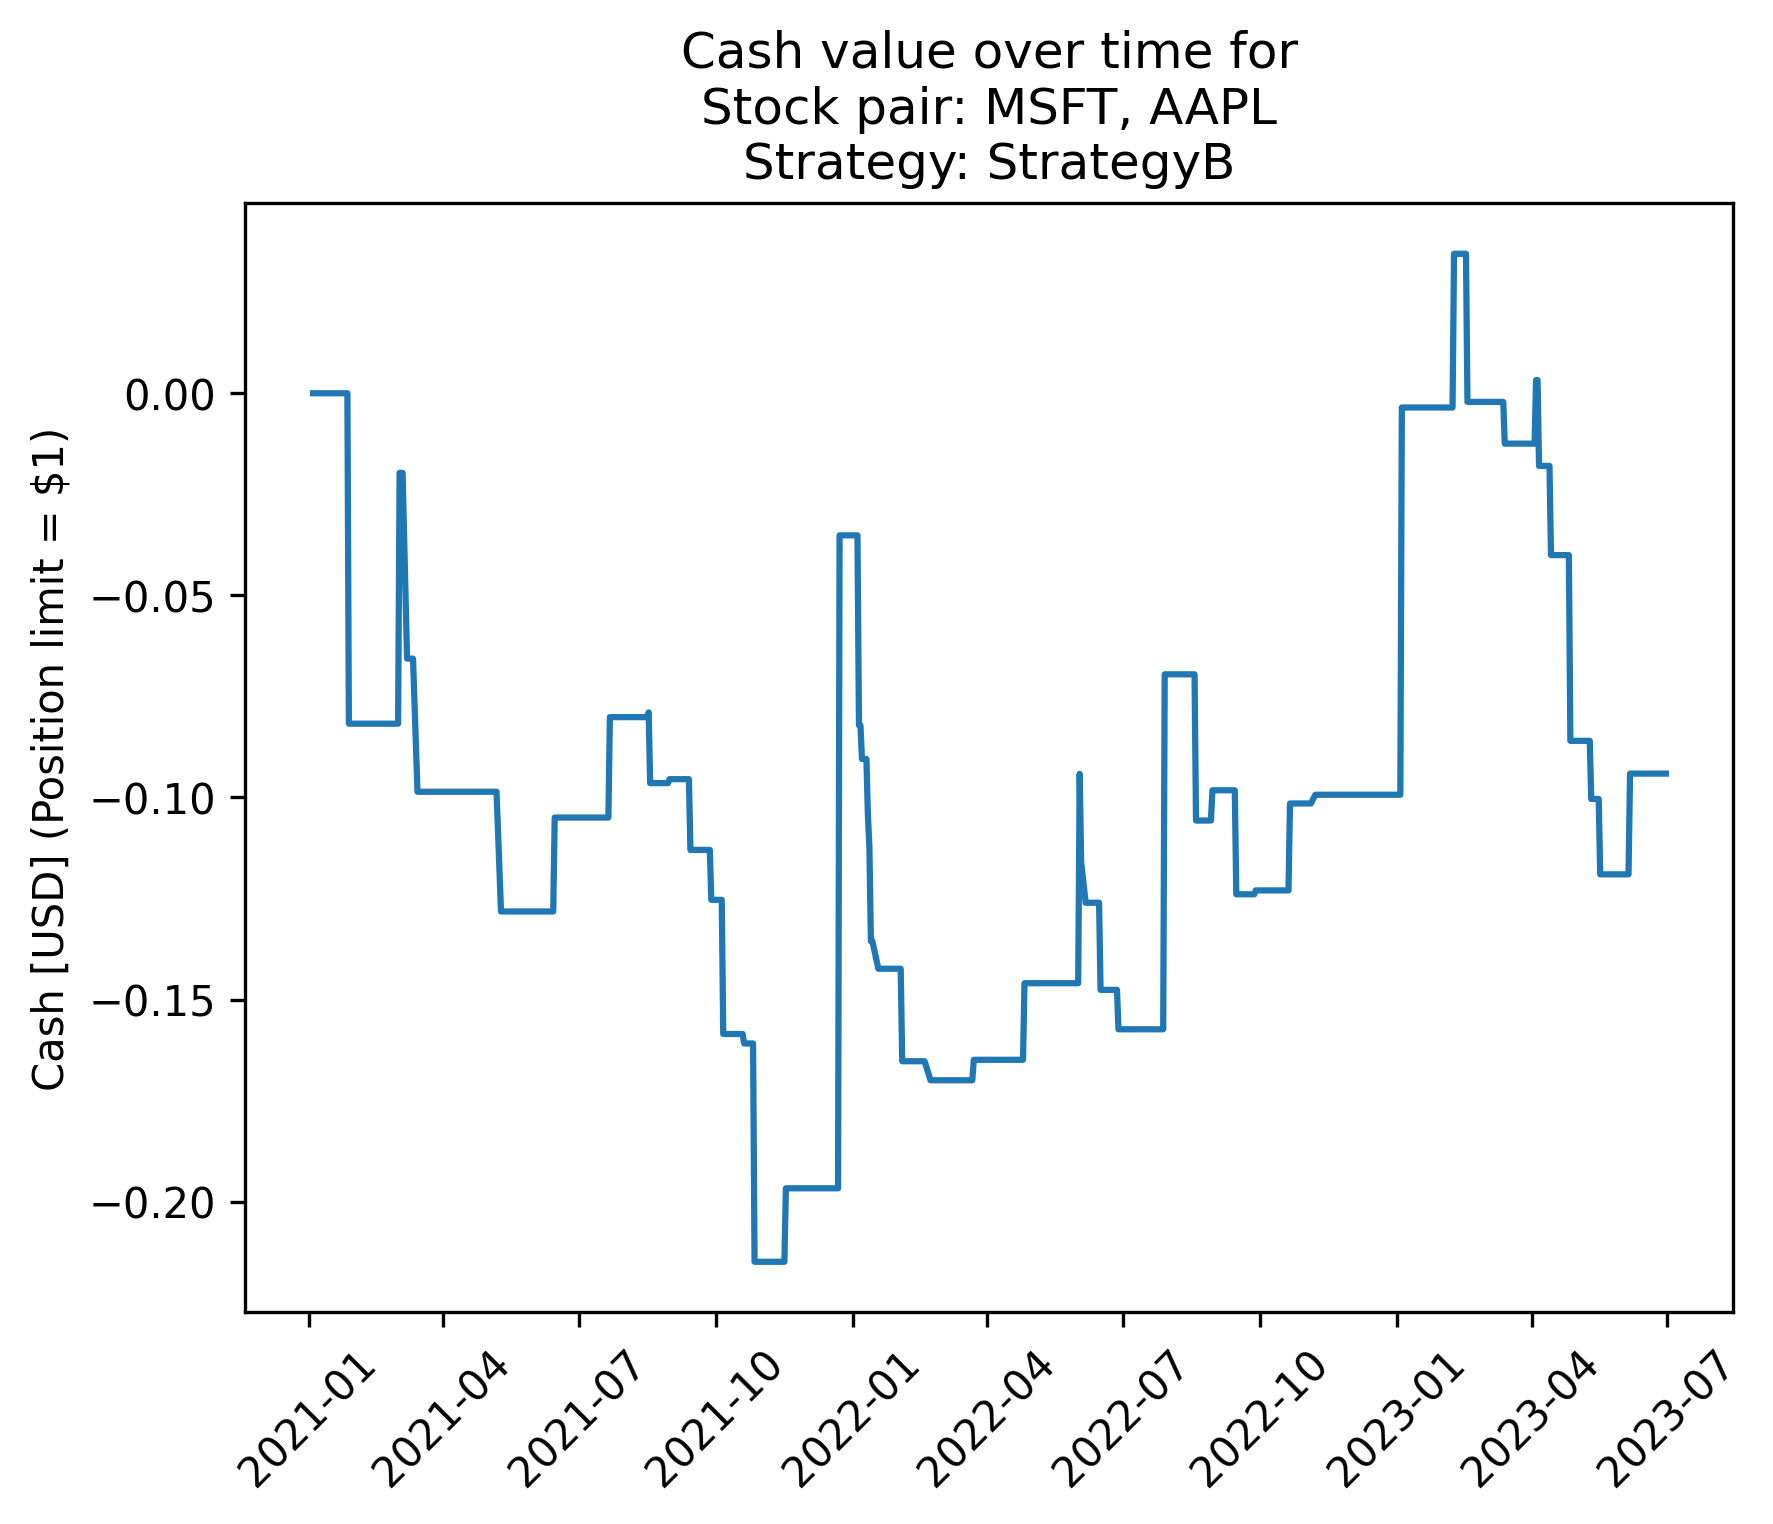
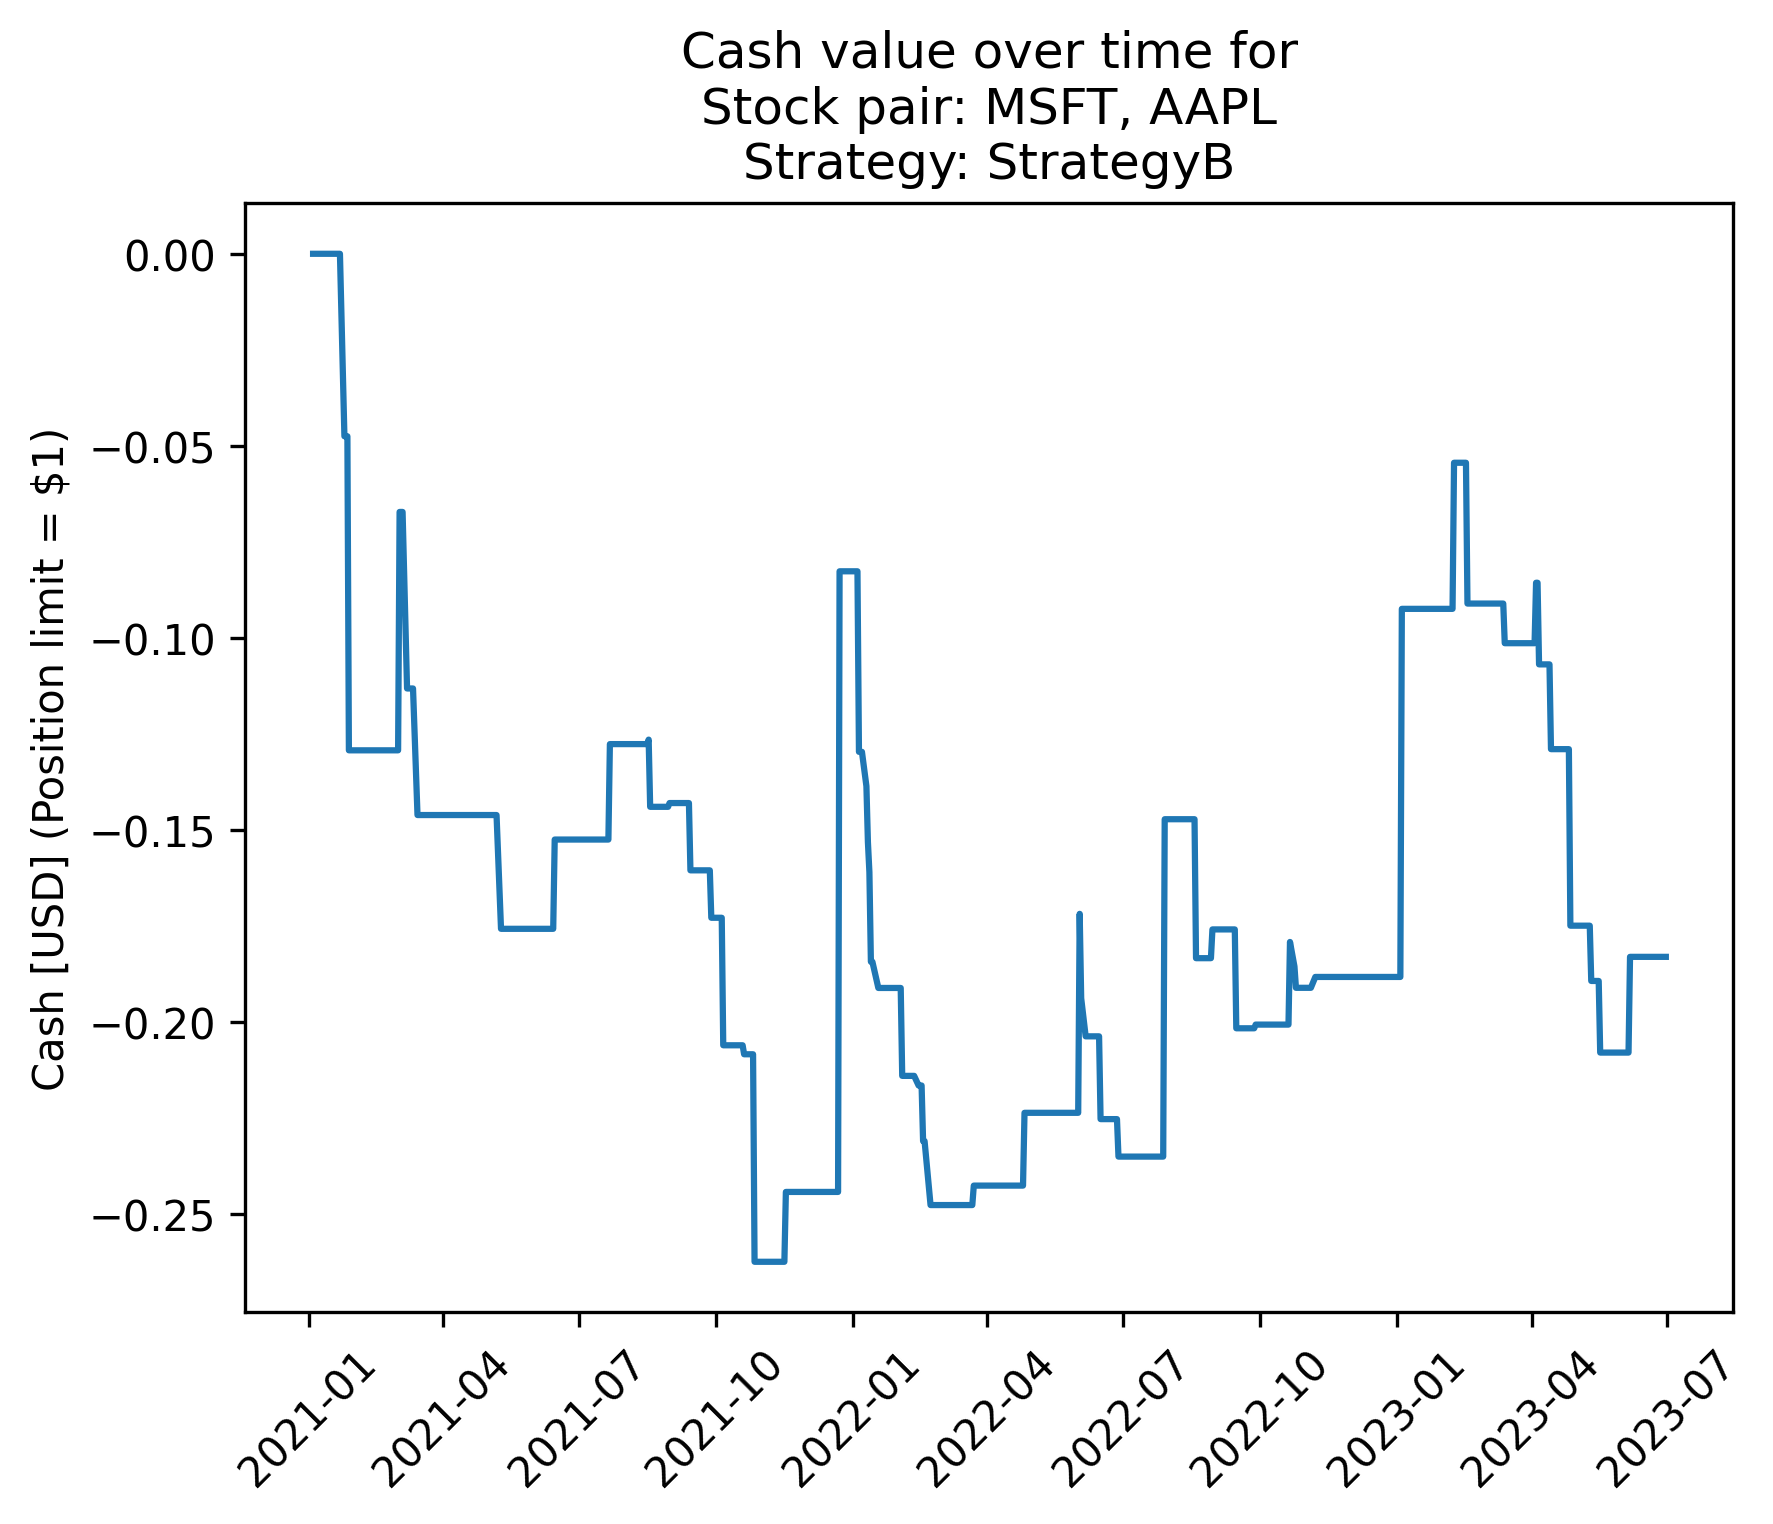
Remove StrategyB and repalced it with StrategyB2

diff --git a/tests/test_strategies.py b/tests/test_strategies.py
@@ -90,104 +90,10 @@ def test_strategy_a_calculate_new_position(mock_read_csv):
     new_position = strategy.calculate_new_position()
     assert new_position == 'long B short A'
 
-@patch('pairs_trading_oaf.data.read_csv')
-def test_strategy_b_initialization(mock_read_csv):
+@patch('pairs_trading_oaf.strategies.StrategyB.calc_initial_macd_signal')
+def test_strategy_b_initialization_no_initital_macd(mock_calc_initial_macd_signal):
     """
-    This test checks that the StrategyB class is initialized correctly.
-    """
-
-    # Arrange
-
-    # Create a mock pair portfolio object
-    mock_pair_portfolio = Mock()
-    mock_pair_portfolio.stock_pair_labels = ('StockA', 'StockB')
-
-    # Create mock data for the initial window
-    mock_data = pd.DataFrame({'Date': pd.date_range(start='2021-01-01', periods=100, freq='D'),
-                              'StockA': np.random.rand(100) * 100,
-                              'StockB': np.random.rand(100) * 200
-                            })
-    mock_data.index = mock_data['Date']
-    mock_read_csv.return_value = mock_data
-
-    # Act
-    strategy = strategies.StrategyB(mock_pair_portfolio)
-
-    # Assert
-    assert strategy.pair_portfolio == mock_pair_portfolio
-    assert strategy.fast_window_size == 12
-    assert strategy.slow_window_size == 26
-    assert strategy.signal_window_size == 9
-    max_window_size = np.max([strategy.fast_window_size,
-                              strategy.slow_window_size,
-                              strategy.signal_window_size])
-    assert strategy.window_prices.equals(mock_data[['StockA', 'StockB']].tail(max_window_size+50))
-
-def test_calc_macd_signal():
-    """
-    This test checks that the calc_macd_signal function returns the correct output.
-    """
-
-    # Arrange
-    # Create a series of stock prices (ratios)
-    stock_a_prices = np.array([4, 3, 1, 2, 5, 1])
-    stock_b_prices = np.array([1, 1, 1, 1, 1, 1])
-    ratio = pd.Series(stock_a_prices / stock_b_prices)
-
-    # Define the window sizes directly in the test
-    fast_window_size = 2
-    slow_window_size = 4
-    signal_window_size = 2
-
-    # alpha = 2 / (window_size + 1)
-    # alpha_fast = 2 / = 2/3
-    # fast_ema[0] = ratio[0] = 4
-    # fast_ema[1] = (1 - alpha) * 4 + alpha * 3 =  10/3  = 3.3333333
-    # fast_ema[2] = (1 - alpha) * 10/3 + alpha * 1 = 16/9 = 1.7777777
-    # fast_ema[3] = (1 - alpha) * 16/9 + alpha * 2 = 52/27 = 1.9259259
-    # fast_ema[4] = (1 - alpha) * 52/27 + alpha * 5 = 322/81 = 3.9753086
-    # fast_ema[5] = (1 - alpha) * 322/81 + alpha * 1 = 484/243 = 1.9917695
-    # fast_ema = [4, 10/3, 16/9, 52/27, 322/81, 484/243]
-    # alpha_slow = 2 / 5
-    # slow_ema[0] = 4
-    # slow_ema[0] = (1 - alpha) * 4 + alpha * 3 = 18/5 = 3.6
-    # slow_ema[1] = (1 - alpha) * 18/5 + alpha * 1 = 64/25 = 2.56
-    # slow_ema[2] = (1 - alpha) * 64/25 + alpha * 2 = 292/125 = 2.336
-    # slow_ema[3] = (1 - alpha) * 292/125 + alpha * 5 = 2126/625 = 3.4016
-    # slow_ema[4] = (1 - alpha) * 2126/625 + alpha * 1 = 7628/3125 = 2.44096
-    # slow_ema = [4, 18/5, 64/25, 292/125, 2126/625, 7628/3125]
-    # macd = fast_ema - slow_ema
-    # macd = [0, -4/15, -176/225, -1384/3375, 29044/50625,-341104/759375]
-    #      = [0, -0.2666666, -0.7822222, -0.4103703, 0.5733333, -0.4491852]
-    # alpha_signal = 2 / 3
-    # signal[0] = macd[0] = 0
-    # signal[1] = (1 - alpha) * 0 + alpha * (-4/15) = -8/45 = -0.1777777
-    # signal[2] = (1 - alpha) * (-8/45) + alpha * (-176/225) = -392/675 = -0.5807407
-    # signal[3] = (1 - alpha) * (-392/675) + alpha * (-1384/3375) = -1576/3375 = -0.4669629
-    # signal[4] = (1 - alpha) * (-1576/3375) + alpha * (29044/50625) = 34448/151875 = 0.22681811
-    # signal[5] = (1 - alpha) * (34448/151875) + alpha * (-341104/759375) = -509968/2278125
-    #           = -0.2238543
-    # signal = np.array([0, -8/45, -392/675, -1576/3375, 34448/151875, -509968/2278125])
-
-    # Act
-    macd, signal = strategies.StrategyB.calc_macd_signal(ratio,
-                                                         slow_window_size,
-                                                         fast_window_size,
-                                                         signal_window_size)
-
-    # Assert
-    assert macd is not None
-    assert signal is not None
-    assert len(macd) == len(ratio)
-    assert len(signal) == len(ratio)
-    # assert macd = [0, -4/15, -176/225, -1384/3375, 29044/50625,-341104/759375]
-    assert np.allclose(macd, [0, -4/15, -176/225, -1384/3375, 29044/50625,-341104/759375])
-    assert np.allclose(signal, [0, -8/45, -392/675, -1576/3375, 34448/151875, -509968/2278125])
-
-@patch('pairs_trading_oaf.strategies.StrategyB2.calc_initial_macd_signal')
-def test_strategy_b2_initialization_no_initital_macd(mock_calc_initial_macd_signal):
-    """
-    This test checks that the StrategyB2 class is initialized correctly but without calling the
+    This test checks that the StrategyB class is initialized correctly but without calling the
     calc_initial_macd_signal function.
     """
 
@@ -198,7 +104,7 @@ def test_strategy_b2_initialization_no_initital_macd(mock_calc_initial_macd_sign
     mock_pair_portfolio.stock_pair_labels = ('StockA', 'StockB')
 
     # Act
-    strategy = strategies.StrategyB2(mock_pair_portfolio)
+    strategy = strategies.StrategyB(mock_pair_portfolio)
 
     # Assert
     assert strategy.pair_portfolio == mock_pair_portfolio
@@ -212,9 +118,9 @@ def test_strategy_b2_initialization_no_initital_macd(mock_calc_initial_macd_sign
     mock_calc_initial_macd_signal.assert_called_once()
 
 @patch('pairs_trading_oaf.data.read_csv')
-def test_strategy_b2_initialization(mock_read_csv):
+def test_strategy_b_initialization(mock_read_csv):
     """
-    This test checks that the StrategyB2 class is initialized correctly and also tests the
+    This test checks that the StrategyB class is initialized correctly and also tests the
     calc_initial_macd_signal function.
     """
 
@@ -233,7 +139,7 @@ def test_strategy_b2_initialization(mock_read_csv):
     mock_read_csv.return_value = mock_data
 
     # Act
-    strategy = strategies.StrategyB2(mock_pair_portfolio,
+    strategy = strategies.StrategyB(mock_pair_portfolio,
                                      fast_period=3,
                                      slow_period=4,
                                      signal_period=2,
@@ -268,9 +174,9 @@ def test_strategy_b2_initialization(mock_read_csv):
     assert np.isclose(strategy.macd.signal, 1/15)
 
 @patch('pairs_trading_oaf.data.read_csv')
-def test_strategy_b2_calculate_new_position(mock_read_csv):
+def test_strategy_b_calculate_new_position(mock_read_csv):
     """
-    This test checks that the StrategyB2 class calculates the new position correctly.
+    This test checks that the StrategyB class calculates the new position correctly.
     """
     # Arrange
     mock_pair_portfolio = Mock()
@@ -286,12 +192,11 @@ def test_strategy_b2_calculate_new_position(mock_read_csv):
     mock_read_csv.return_value = mock_data
 
     # Act
-    strategy = strategies.StrategyB2(mock_pair_portfolio,
+    strategy = strategies.StrategyB(mock_pair_portfolio,
                                      fast_period=3,
                                      slow_period=4,
                                      signal_period=2,
                                      training_period=2)
-    
     assert np.isclose(strategy.macd.fast_ewma, 5/2)
     assert np.isclose(strategy.macd.slow_ewma, 12/5)
     assert np.isclose(strategy.macd.macd, 1/10)
@@ -329,7 +234,7 @@ def test_strategy_b2_calculate_new_position(mock_read_csv):
     # Test 3: Check if the macd crosses above the signal
     #         then the position should change to long A short B.
     mock_pair_portfolio.stock_pair_prices = (10, 1)
-    new_position = strategy.calculate_new_position()    
+    new_position = strategy.calculate_new_position()
     # fast_ewma = alpha_fast * (10) + (1 - alpha_fast) * 37/24 = 277/48
     # slow_ewma = alpha_slow * (10) + (1 - alpha_slow) * 644/375 = 3144/625
     # macd = fast_ewma - slow_ewma = 22213/30000

diff --git a/pairs_trading_oaf/strategies.py b/pairs_trading_oaf/strategies.py
@@ -23,7 +23,6 @@ class StrategyX(BaseStrategy):
 """
 
 from abc import ABC, abstractmethod
-import numpy as np
 import pandas as pd
 from pairs_trading_oaf import data
 
@@ -112,92 +111,6 @@ class StrategyA(BaseStrategy):
             return self.pair_portfolio.position
 
 class StrategyB(BaseStrategy):
-    """
-    Moving Average Convergence Divergence (MACD) strategy.
-
-    The MACD strategy is a trend following strategy that uses the difference between
-    two moving averages of the stock prices to determine the position.
-
-    The MACD line is the difference between the 26-day and 12-day exponential moving averages
-    of the stock prices. The signal line is the 9-day exponential moving average of the MACD line.
-
-    The position is long stock A and short stock B if the MACD crosses above the signal line.
-
-    The position is long stock B and short stock A if the MACD crosses below the signal line.
-    """
-
-    def __init__(self, pair_portfolio,
-                 fast_window_size: int = 12,
-                 slow_window_size: int = 26,
-                 signal_window_size: int = 9):
-        self.pair_portfolio = pair_portfolio
-        self.fast_window_size = fast_window_size
-        self.slow_window_size = slow_window_size
-        self.signal_window_size = signal_window_size
-        max_window_size = np.max([self.fast_window_size,
-                                  self.slow_window_size,
-                                  self.signal_window_size])
-        # Set the window size to be the maximum window size plus 50
-        # This is to ensure that we have enough data to calculate the MACD and signal line
-        window_size = max_window_size + 50
-        self.window_prices = self.calculate_initial_window(window_size)
-
-    @staticmethod
-    def calc_macd_signal(ratio, slow_window_size, fast_window_size, signal_window_size):
-        """
-        Calculate the MACD and signal line for a given stock pair ratio.
-        """
-        fast_ema = ratio.ewm(span=fast_window_size, adjust=False).mean()
-        slow_ema = ratio.ewm(span=slow_window_size, adjust=False).mean()
-        macd = fast_ema - slow_ema
-        signal = macd.ewm(span=signal_window_size, adjust=False).mean()
-        return macd, signal
-
-    @staticmethod
-    def calc_macd_new_signal(ratio, slow_window_size, fast_window_size, signal_window_size):
-        """
-        Calculate the MACD and signal line for a given stock pair ratio.
-        """
-        fast_ema = ratio.ewm(span=fast_window_size, adjust=False).mean()
-        slow_ema = ratio.ewm(span=slow_window_size, adjust=False).mean()
-        macd = fast_ema - slow_ema
-        signal = macd.ewm(span=signal_window_size, adjust=False).mean()
-        return macd, signal
-
-    def calculate_new_position(self):
-        """
-        Calculate the new position for the pair portfolio.
-
-        Takes the latest prices of the stock pair and calculates the new position based on the
-        MACD and signal line. The new position can be one of the following strings:
-        - "no position"
-        - "long A short B"
-        - "long B short A"
-        """
-        new_prices = self.pair_portfolio.stock_pair_prices
-        current_date = self.pair_portfolio.date
-        stock_pair_labels = self.pair_portfolio.stock_pair_labels
-        new_data = pd.DataFrame([new_prices],
-                                columns=stock_pair_labels,
-                                index=[current_date])
-        self.window_prices = pd.concat([self.window_prices, new_data])
-        self.window_prices = self.window_prices.iloc[1:]
-        ratio = self.window_prices[stock_pair_labels[0]] / self.window_prices[stock_pair_labels[1]]
-        macd, signal = self.calc_macd_signal(ratio,
-                                             self.slow_window_size,
-                                             self.fast_window_size,
-                                             self.signal_window_size)
-        if macd.iloc[-1] > signal.iloc[-1] and macd.iloc[-2] < signal.iloc[-2]:
-            # MACD crossed above signal line so long stock A and short stock B
-            return 'long A short B'
-        elif macd.iloc[-1] < signal.iloc[-1] and macd.iloc[-2] > signal.iloc[-2]:
-            # MACD crossed below signal line so long stock B and short stock A
-            return 'long B short A'
-        else:
-            # Don't change the position if the MACD and signal line do not cross
-            return self.pair_portfolio.position
-
-class StrategyB2(BaseStrategy):
     """
     Moving Average Convergence Divergence (MACD) strategy.
 

diff --git a/pairs_trading_oaf/plotting.py b/pairs_trading_oaf/plotting.py
@@ -38,6 +38,7 @@ def plot_portfolio_value_over_time(master_portfolio,
                              f'{pair_portfolio.strategy.__class__.__name__}' + '_' +
                              stock_a_label + '_' + stock_b_label + '.png')
         fig.savefig(fname, dpi=300, bbox_inches='tight')
+        plt.close()
 
         if plot_cash:
 
@@ -53,6 +54,7 @@ def plot_portfolio_value_over_time(master_portfolio,
                                 f'{pair_portfolio.strategy.__class__.__name__}' + '_' +
                                 stock_a_label + '_' + stock_b_label + '.png')
             fig.savefig(fname, dpi=300, bbox_inches='tight')
+            plt.close()
 
     fig, ax = plt.subplots()
 
@@ -64,6 +66,7 @@ def plot_portfolio_value_over_time(master_portfolio,
     ax.set_title('Average portfolio value over time')
     fname = os.path.join(plots_dir, 'average_portfolio_value_over_time.png')
     fig.savefig(fname, dpi=300, bbox_inches='tight')
+    plt.close()
 
     if plot_cash:
         fig, ax = plt.subplots()
@@ -75,3 +78,4 @@ def plot_portfolio_value_over_time(master_portfolio,
         ax.set_title('Average cash over time')
         fname = os.path.join(plots_dir, 'average_cash_over_time.png')
         fig.savefig(fname, dpi=300, bbox_inches='tight')
+        plt.close()

diff --git a/pairs_trading_oaf/main.py b/pairs_trading_oaf/main.py
@@ -34,7 +34,7 @@ stock_pair_labels_list = [
     ("Caterpillar Inc. (NYSE:CAT)", "Deere & Company (NYSE:DE)"),
     ("Wells Fargo & Company (NYSE:WFC)", "Citigroup Inc. (NYSE:C)"),
 ]
-StrategyClass = strategies.StrategyB2
+StrategyClass = strategies.StrategyB
 
 master_portfolio = portfolio.MasterPortfolio(POSITION_LIMIT,
                                              TRAINING_DATA_FNAME,
